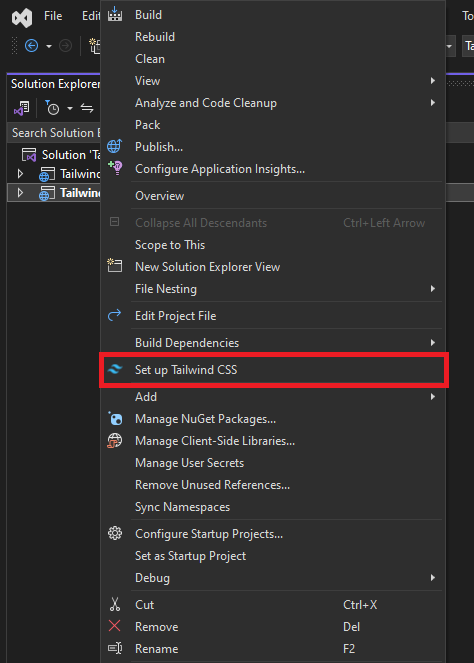
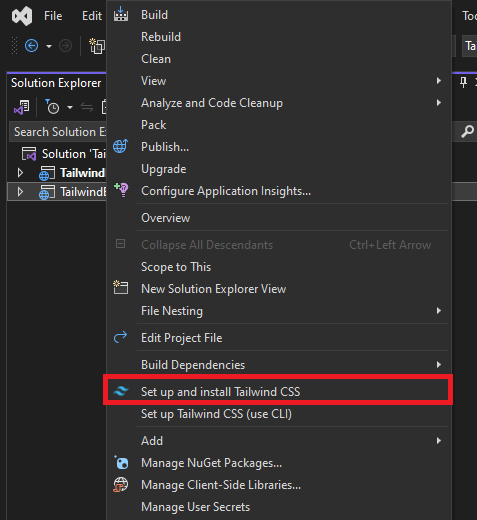
Added support for ARM #37 and standalone Tailwind CSS CLI

diff --git a/src/Settings/SettingsProvider.cs b/src/Settings/SettingsProvider.cs
@@ -67,7 +67,8 @@ namespace TailwindCSSIntellisense.Settings
                         BuildType = general.BuildProcessType,
                         BuildScript = general.BuildScript,
                         OverrideBuild = general.OverrideBuild,
-                        AutomaticallyMinify = general.AutomaticallyMinify
+                        AutomaticallyMinify = general.AutomaticallyMinify,
+                        TailwindCliPath = general.TailwindCliPath
                     };
                 }
 
@@ -126,7 +127,9 @@ namespace TailwindCSSIntellisense.Settings
                     TailwindConfigurationFile = PathHelpers.GetAbsolutePath(activeProjectPath, projectSettings?.ConfigurationFile?.Trim()),
                     TailwindCssFile = PathHelpers.GetAbsolutePath(activeProjectPath, projectSettings?.InputCssFile?.Trim()),
                     TailwindOutputCssFile = PathHelpers.GetAbsolutePath(activeProjectPath, projectSettings?.OutputCssFile?.Trim()),
-                    AutomaticallyMinify = general.AutomaticallyMinify
+                    AutomaticallyMinify = general.AutomaticallyMinify,
+                    TailwindCliPath = general.TailwindCliPath,
+                    UseCli = projectSettings.UseCli
                 };
 
                 _cachedSettings = returnSettings;
@@ -176,7 +179,8 @@ namespace TailwindCSSIntellisense.Settings
             {
                 ConfigurationFile = PathHelpers.GetRelativePath(settings.TailwindConfigurationFile, projectRoot),
                 InputCssFile = PathHelpers.GetRelativePath(settings.TailwindCssFile, projectRoot),
-                OutputCssFile = PathHelpers.GetRelativePath(settings.TailwindOutputCssFile, projectRoot)
+                OutputCssFile = PathHelpers.GetRelativePath(settings.TailwindOutputCssFile, projectRoot),
+                UseCli = settings.UseCli
             };
 
             if (projectSettings.ConfigurationFile == null && projectSettings.InputCssFile == null && projectSettings.OutputCssFile == null && File.Exists(Path.Combine(projectRoot, ExtensionConfigFileName)))
@@ -258,7 +262,8 @@ namespace TailwindCSSIntellisense.Settings
                 settings.BuildProcessType != origSettings.BuildType ||
                 settings.BuildScript != origSettings.BuildScript ||
                 settings.OverrideBuild != origSettings.OverrideBuild ||
-                settings.AutomaticallyMinify != origSettings.AutomaticallyMinify)
+                settings.AutomaticallyMinify != origSettings.AutomaticallyMinify ||
+                settings.TailwindCliPath != origSettings.TailwindCliPath)
             {
                 origSettings.EnableTailwindCss = settings.UseTailwindCss;
                 origSettings.DefaultOutputCssName = settings.TailwindOutputFileName;
@@ -266,6 +271,7 @@ namespace TailwindCSSIntellisense.Settings
                 origSettings.BuildScript = settings.BuildScript;
                 origSettings.OverrideBuild = settings.OverrideBuild;
                 origSettings.AutomaticallyMinify = settings.AutomaticallyMinify;
+                origSettings.TailwindCliPath = settings.TailwindCliPath;
 
                 ThreadHelper.JoinableTaskFactory.Run(async () => await OnSettingsChanged(origSettings));
             }
@@ -276,6 +282,7 @@ namespace TailwindCSSIntellisense.Settings
         private void InvalidateCacheAndSettingsChanged(string file)
         {
             _cacheValid = false;
+            _cachedSettings = null;
             if (OnSettingsChanged != null)
             {
                 ThreadHelper.JoinableTaskFactory.Run(async () =>
@@ -289,6 +296,7 @@ namespace TailwindCSSIntellisense.Settings
         private void InvalidateCacheAndSettingsChanged(Project project)
         {
             _cacheValid = false;
+            _cachedSettings = null;
             if (OnSettingsChanged != null)
             {
                 ThreadHelper.JoinableTaskFactory.Run(async () =>

diff --git a/src/Build/TailwindBuildProcess.cs b/src/Build/TailwindBuildProcess.cs
@@ -199,7 +199,7 @@ namespace TailwindCSSIntellisense.Build
                 {
                     if (_settings.OverrideBuild == false || _hasScript == false || string.IsNullOrWhiteSpace(_settings.BuildScript))
                     {
-                        _process.StandardInput.WriteLine($"npx tailwindcss -i \"{cssFile}\" -o \"{outputFile}\" {(minify ? "--minify" : "")}");
+                        _process.StandardInput.WriteLine($"{GetCommand()} -i \"{cssFile}\" -o \"{outputFile}\" {(minify ? "--minify" : "")}");
                     }
                     else if (_settings.OverrideBuild)
                     {
@@ -214,7 +214,7 @@ namespace TailwindCSSIntellisense.Build
 
                     if (_settings.OverrideBuild == false || _hasScript == false || string.IsNullOrWhiteSpace(_settings.BuildScript))
                     {
-                        _process.StandardInput.WriteLine($"npx tailwindcss -i \"{cssFile}\" -o \"{outputFile}\" {(minify ? "--minify" : "")}");
+                        _process.StandardInput.WriteLine($"{GetCommand()} -i \"{cssFile}\" -o \"{outputFile}\" {(minify ? "--minify" : "")}");
                     }
                     else if (_settings.OverrideBuild)
                     {
@@ -276,7 +276,7 @@ namespace TailwindCSSIntellisense.Build
 
                     if (_settings.OverrideBuild == false || _hasScript == false || string.IsNullOrWhiteSpace(_settings.BuildScript))
                     {
-                        _process.StandardInput.WriteLine($"npx tailwindcss -i \"{cssFile}\" -o \"{outputFile}\" {(_settings.BuildType == BuildProcessOptions.Default ? "--watch" : "")} {(minify ? "--minify" : "")} & exit");
+                        _process.StandardInput.WriteLine($"{GetCommand()} -i \"{cssFile}\" -o \"{outputFile}\" {(_settings.BuildType == BuildProcessOptions.Default ? "--watch" : "")} {(minify ? "--minify" : "")} & exit");
                     }
                     else if (_settings.OverrideBuild)
                     {
@@ -360,6 +360,15 @@ namespace TailwindCSSIntellisense.Build
                     _otherProcess = null;
                 }
             }
+        }
+
+        private string GetCommand()
+        {
+            if (string.IsNullOrWhiteSpace(_settings.TailwindCliPath))
+            {
+                return "npx tailwindcss";
+            }
+            return _settings.TailwindCliPath;
         }
 
         /// <summary>

diff --git a/src/Commands/SetUpAndInstallTailwind.cs b/src/Commands/SetUpAndInstallTailwind.cs
@@ -1,0 +1,48 @@
+using Community.VisualStudio.Toolkit;
+using Microsoft.VisualStudio.Shell;
+using System;
+using System.IO;
+using System.Threading.Tasks;
+using TailwindCSSIntellisense.Node;
+using TailwindCSSIntellisense.Settings;
+
+namespace TailwindCSSIntellisense
+{
+    [Command(PackageGuids.guidVSPackageCmdSetString, PackageIds.SetUpAndInstallTailwindCmdId)]
+    internal sealed class SetUpAndInstallTailwind : BaseCommand<SetUpAndInstallTailwind>
+    {
+        protected override async Task InitializeCompletedAsync()
+        {
+            SolutionExplorerSelection = await VS.GetMefServiceAsync<SolutionExplorerSelectionService>();
+            TailwindSetUpProcess = await VS.GetMefServiceAsync<TailwindSetUpProcess>();
+            SettingsProvider = await VS.GetMefServiceAsync<SettingsProvider>();
+        }
+
+        internal SolutionExplorerSelectionService SolutionExplorerSelection { get; set; }
+        internal TailwindSetUpProcess TailwindSetUpProcess { get; set; }
+        internal SettingsProvider SettingsProvider { get; set; }
+
+        protected override void BeforeQueryStatus(EventArgs e)
+        {
+            var settings = ThreadHelper.JoinableTaskFactory.Run(SettingsProvider.GetSettingsAsync);
+
+            Command.Visible = settings.EnableTailwindCss && (string.IsNullOrEmpty(settings.TailwindConfigurationFile) || File.Exists(settings.TailwindConfigurationFile) == false);
+            Command.Enabled = !TailwindSetUpProcess.IsSettingUp;
+        }
+
+        protected override async Task ExecuteAsync(OleMenuCmdEventArgs e)
+        {
+            if (!TailwindSetUpProcess.IsSettingUp)
+            {
+                var directory = Path.GetDirectoryName(SolutionExplorerSelection.CurrentSelectedItemFullPath);
+                await ThreadHelper.JoinableTaskFactory.RunAsync(() => TailwindSetUpProcess.RunAsync(directory));
+                
+                var configFile = Path.Combine(directory, "tailwind.config.js");
+
+                var settings = await SettingsProvider.GetSettingsAsync();
+                settings.TailwindConfigurationFile = configFile;
+                await SettingsProvider.OverrideSettingsAsync(settings);
+            }
+        }
+    }
+}

diff --git a/src/Commands/SetUpAndUseTailwindCli.cs b/src/Commands/SetUpAndUseTailwindCli.cs
@@ -8,8 +8,8 @@ using TailwindCSSIntellisense.Settings;
 
 namespace TailwindCSSIntellisense
 {
-    [Command(PackageGuids.guidVSPackageCmdSetString, PackageIds.SetUpTailwindCmdId)]
-    internal sealed class SetUpTailwind : BaseCommand<SetUpTailwind>
+    [Command(PackageGuids.guidVSPackageCmdSetString, PackageIds.SetUpTailwindCliCmdId)]
+    internal sealed class SetUpAndUseTailwindCli : BaseCommand<SetUpAndUseTailwindCli>
     {
         protected override async Task InitializeCompletedAsync()
         {
@@ -26,7 +26,7 @@ namespace TailwindCSSIntellisense
         {
             var settings = ThreadHelper.JoinableTaskFactory.Run(SettingsProvider.GetSettingsAsync);
 
-            Command.Visible = settings.EnableTailwindCss && (string.IsNullOrEmpty(settings.TailwindConfigurationFile) || File.Exists(settings.TailwindConfigurationFile) == false);
+            Command.Visible = settings.EnableTailwindCss && File.Exists(settings.TailwindCliPath) && (string.IsNullOrEmpty(settings.TailwindConfigurationFile) || File.Exists(settings.TailwindConfigurationFile) == false);
             Command.Enabled = !TailwindSetUpProcess.IsSettingUp;
         }
 
@@ -35,12 +35,14 @@ namespace TailwindCSSIntellisense
             if (!TailwindSetUpProcess.IsSettingUp)
             {
                 var directory = Path.GetDirectoryName(SolutionExplorerSelection.CurrentSelectedItemFullPath);
-                await ThreadHelper.JoinableTaskFactory.RunAsync(() => TailwindSetUpProcess.RunAsync(directory));
+                var settings = await SettingsProvider.GetSettingsAsync();
+
+                await ThreadHelper.JoinableTaskFactory.RunAsync(() => TailwindSetUpProcess.RunAsync(directory, settings.TailwindCliPath));
                 
                 var configFile = Path.Combine(directory, "tailwind.config.js");
 
-                var settings = await SettingsProvider.GetSettingsAsync();
                 settings.TailwindConfigurationFile = configFile;
+                settings.UseCli = true;
                 await SettingsProvider.OverrideSettingsAsync(settings);
             }
         }

diff --git a/src/Node/TailwindSetUpProcess.cs b/src/Node/TailwindSetUpProcess.cs
@@ -20,7 +20,7 @@ namespace TailwindCSSIntellisense.Node
         /// Starts a process to install Tailwind in the specified directory (uses npm)
         /// </summary>
         /// <param name="directory">The directory to install in</param>
-        public async Task RunAsync(string directory)
+        public async Task RunAsync(string directory, string cliPath = null)
         {
             IsSettingUp = true;
             var processInfo = new ProcessStartInfo()
@@ -44,7 +44,15 @@ namespace TailwindCSSIntellisense.Node
                 process.ErrorDataReceived += ErrorDataReceived;
 
                 await VS.StatusBar.StartAnimationAsync(StatusAnimation.General);
-                await process.StandardInput.WriteLineAsync("npm install -D tailwindcss && npx tailwindcss init & exit");
+
+                if (string.IsNullOrWhiteSpace(cliPath))
+                {
+                    await process.StandardInput.WriteLineAsync("npm install -D tailwindcss && npx tailwindcss init & exit");
+                }
+                else
+                {
+                    await process.StandardInput.WriteLineAsync($"{cliPath} init & exit");
+                }
 
                 await process.WaitForExitAsync();
             }

diff --git a/src/VSPackage.cs b/src/VSPackage.cs
@@ -43,10 +43,11 @@ namespace TailwindCSSIntellisense
         public const int StartBuildProcessCmdId = 0x0106;
         public const int StartMinifyBuildProcessCmdId = 0x0107;
         public const int StopBuildProcessCmdId = 0x0108;
-        public const int SetUpTailwindCmdId = 0x0109;
-        public const int SetUpTailwindWsCmdId = 0x0110;
-        public const int StartBuildProcessWsCmdId = 0x0111;
-        public const int StopBuildProcessWsCmdId = 0x0112;
+        public const int SetUpAndInstallTailwindCmdId = 0x0109;
+        public const int SetUpTailwindCliCmdId = 0x0110;
+        public const int SetUpTailwindWsCmdId = 0x0111;
+        public const int StartBuildProcessWsCmdId = 0x0112;
+        public const int StopBuildProcessWsCmdId = 0x0113;
         public const int tailwindLogo = 0x0001;
     }
 }

diff --git a/src/Options/General.cs b/src/Options/General.cs
@@ -41,6 +41,10 @@ namespace TailwindCSSIntellisense.Options
         [DefaultValue("{0}.output.css")]
         public string TailwindOutputFileName { get; set; } = "{0}.output.css";
         [Category("Build")]
+        [DisplayName("Tailwind CLI path")]
+        [Description("The absolute path to the Tailwind CLI executable for building: if empty, the default npx tailwindcss build command will run; if not, the specified Tailwind CLI will be called")]
+        public string TailwindCliPath { get; set; }
+        [Category("Build")]
         [DisplayName("Build type")]
         [Description("Files can be built in four ways: Default (Tailwind JIT), OnSave (on file save), OnBuild (on project build), and None (no building)")]
         [TypeConverter(typeof(EnumConverter))]

diff --git a/src/source.extension.cs b/src/source.extension.cs
@@ -11,7 +11,7 @@ namespace TailwindCSSIntellisense
         public const string Name = "Tailwind CSS VS2022 Editor Support";
         public const string Description = @"Unofficial VS2022 extension for Tailwind CSS, offering editor features such as IntelliSense, linting, build shortcuts, and more.";
         public const string Language = "en-US";
-        public const string Version = "1.2.3";
+        public const string Version = "1.2.4";
         public const string Author = "Theron Wang";
         public const string Tags = "tailwind, tailwind css, css, html, cshtml, razor, blazor, intellisense, auto-completion";
     }

diff --git a/src/Settings/TailwindSettings.cs b/src/Settings/TailwindSettings.cs
@@ -8,6 +8,8 @@ namespace TailwindCSSIntellisense.Settings
         public string DefaultOutputCssName { get; set; }
         public string TailwindCssFile { get; set; }
         public string TailwindOutputCssFile { get; set; }
+        public bool UseCli { get; set; }
+        public string TailwindCliPath { get; set; }
         public bool EnableTailwindCss { get; set; }
         public BuildProcessOptions BuildType { get; set; }
         public string BuildScript { get; set; }

diff --git a/src/Settings/TailwindSettingsProjectOnly.cs b/src/Settings/TailwindSettingsProjectOnly.cs
@@ -5,5 +5,6 @@
         public string ConfigurationFile { get; set; }
         public string InputCssFile { get; set; }
         public string OutputCssFile { get; set; }
+        public bool UseCli { get; set; }
     }
 }

diff --git a/Getting-Started.md b/Getting-Started.md
@@ -24,11 +24,16 @@ If you prefer a video tutorial, [click here](https://www.youtube.com/watch?v=guJ
 
 ## New Project
 
-2a.	Once you have created a project, **right click on the project node and click 'Set up Tailwind CSS'**:
+2a.	Once you have created a project, **right click on the project node and click 'Set up and install Tailwind CSS'**:
 
 ![Set up TailwindCSS](art/NPM-Shortcuts-1.png)
 
 This will import the Tailwind CSS node modules and configure your `tailwind.config.js`.
+
+**Using the standalone Tailwind CSS CLI:**
+- If you have the Tailwind CSS CLI installed, you can click 'Set up Tailwind CSS (use CLI)' instead once you have specified the CLI path in Tools > Options > Tailwind CSS IntelliSense > Tailwind CLI path.
+- Following builds in the project will use the Tailwind CLI instead of `npx tailwindcss`
+- If you want to switch between `npx tailwindcss` and the standalone CLI, adjust the `UseCli` property in `tailwind.extension.json`
 
 2b. To configure Tailwind CSS, follow the [official documentation](https://tailwindcss.com/docs/installation) (specifically steps 2, 3, and 5).
 

diff --git a/README.md b/README.md
@@ -75,6 +75,10 @@ When getting started in a new project, you can import the necessary modules by r
 
 ![NPM Shortcut 1](https://raw.githubusercontent.com/theron-wang/VS2022-Editor-Support-for-Tailwind-CSS/main/art/NPM-Shortcuts-1.png)
 
+**Using the standalone Tailwind CSS CLI:**
+- Specify the absolute path in Tools > Options > Tailwind CSS IntelliSense > Tailwind CLI path.
+- Click 'Set up Tailwind CSS (use CLI)'
+
 If you prefer a different build command, `package.json` scripts are also supported:
 
 ![NPM Package.json](https://raw.githubusercontent.com/theron-wang/VS2022-Editor-Support-for-Tailwind-CSS/main/art/NPM-package-json.png)
